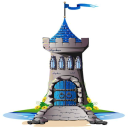
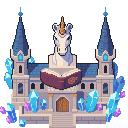
Правки с академией - шрифт, спрайты, увеличение области видимости в последней карте.

diff --git a/UnicornExpansion/UnicornExpansion/scenes/SceneGame.cpp b/UnicornExpansion/UnicornExpansion/scenes/SceneGame.cpp
@@ -739,7 +739,7 @@ void SceneGame::Init() {
     view.setSize({ VIEW_SIZE_X, VIEW_SIZE_Y });
     view.setViewport(sf::FloatRect({ 0.0,0.0 }, { 1.0,0.75 }));
 
-    text_caption = loadText(24,sf::Color::White);
+    text_caption = loadText(20,sf::Color::White);
     text_action = loadText(16);
     text_action->setPosition({ 1024 - 400 + 8, 712 });
     text_hp = loadText(18);
